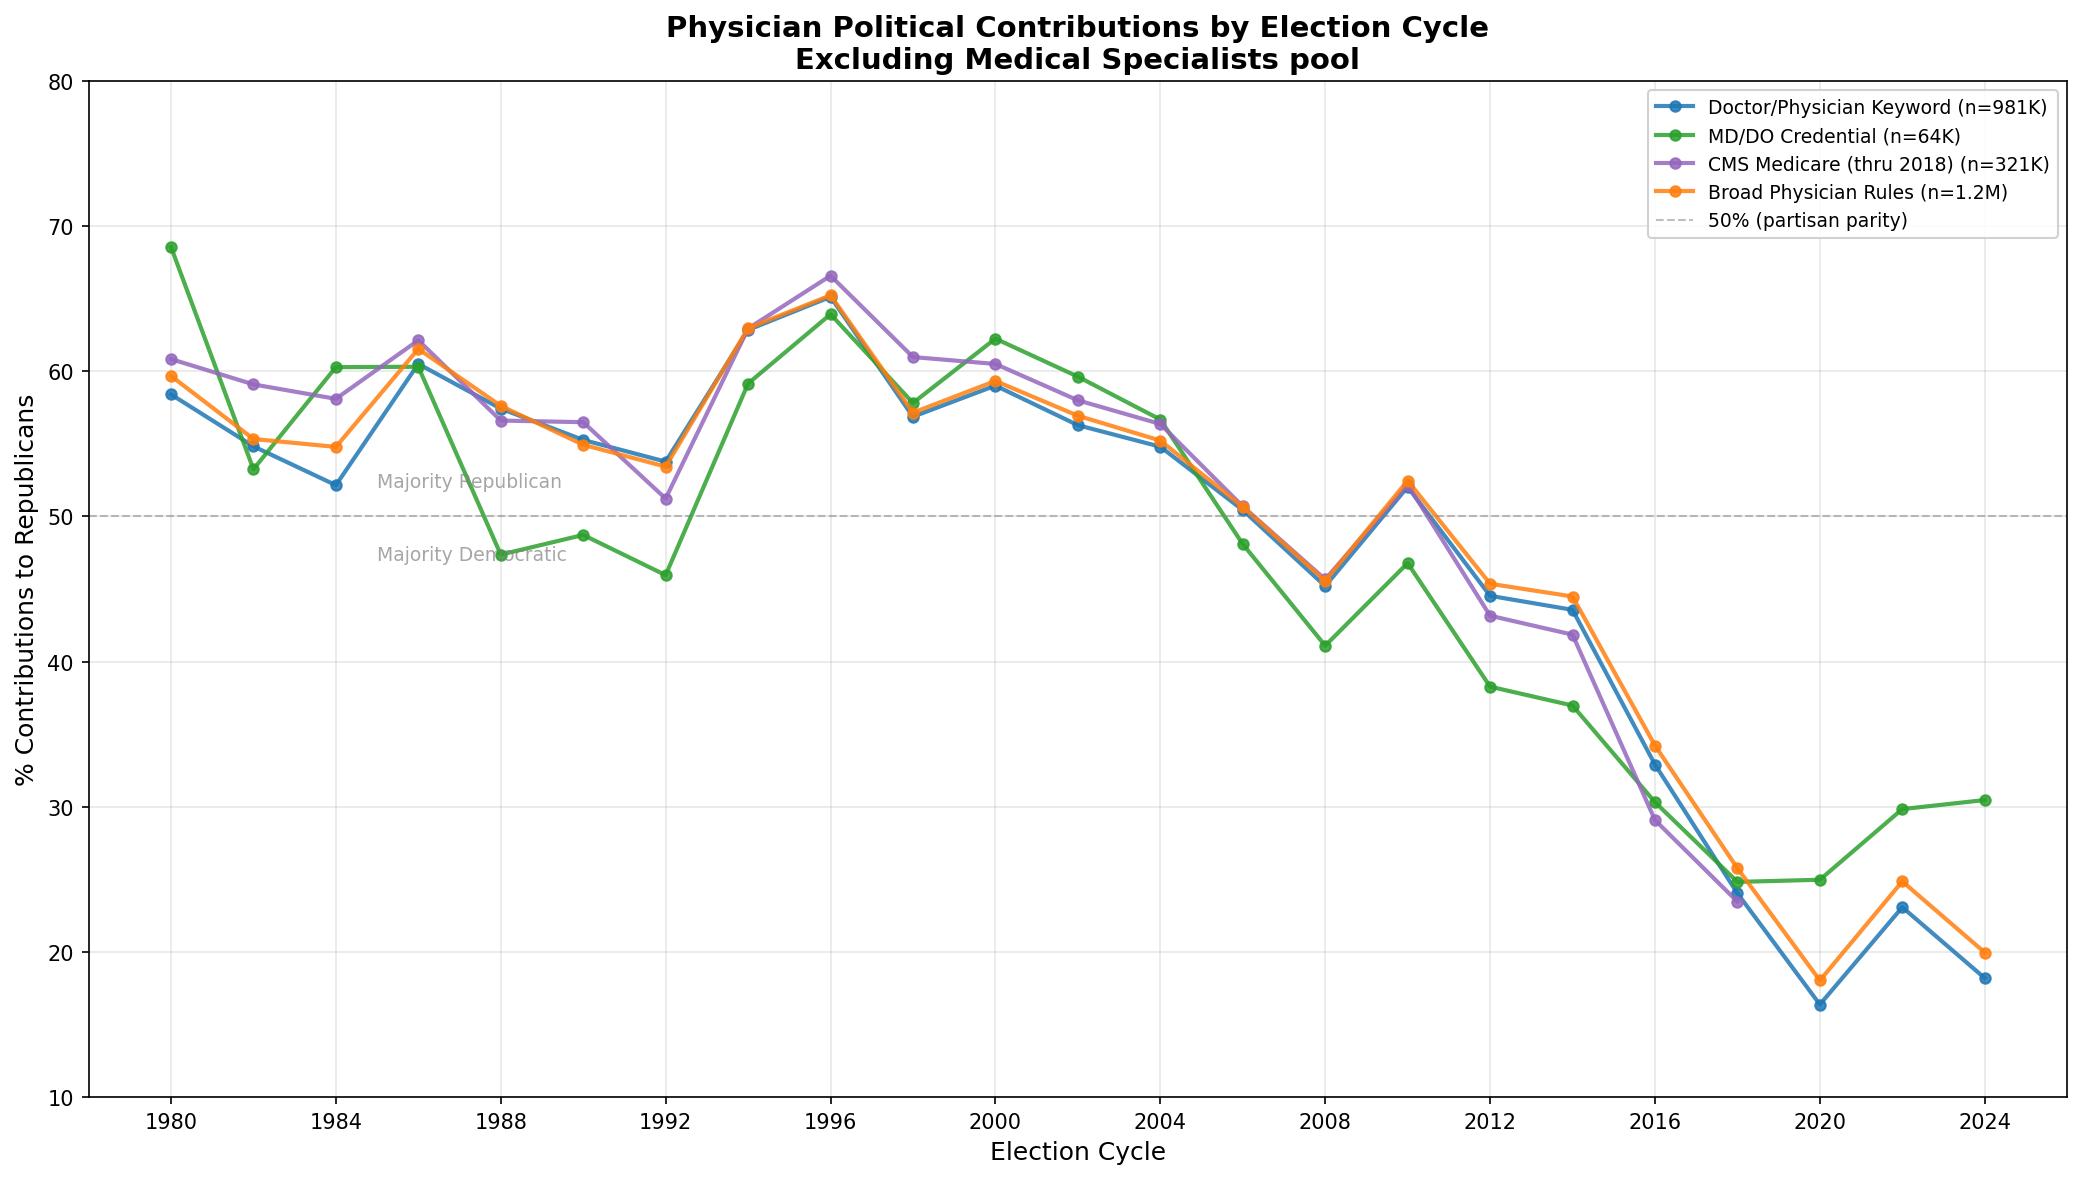
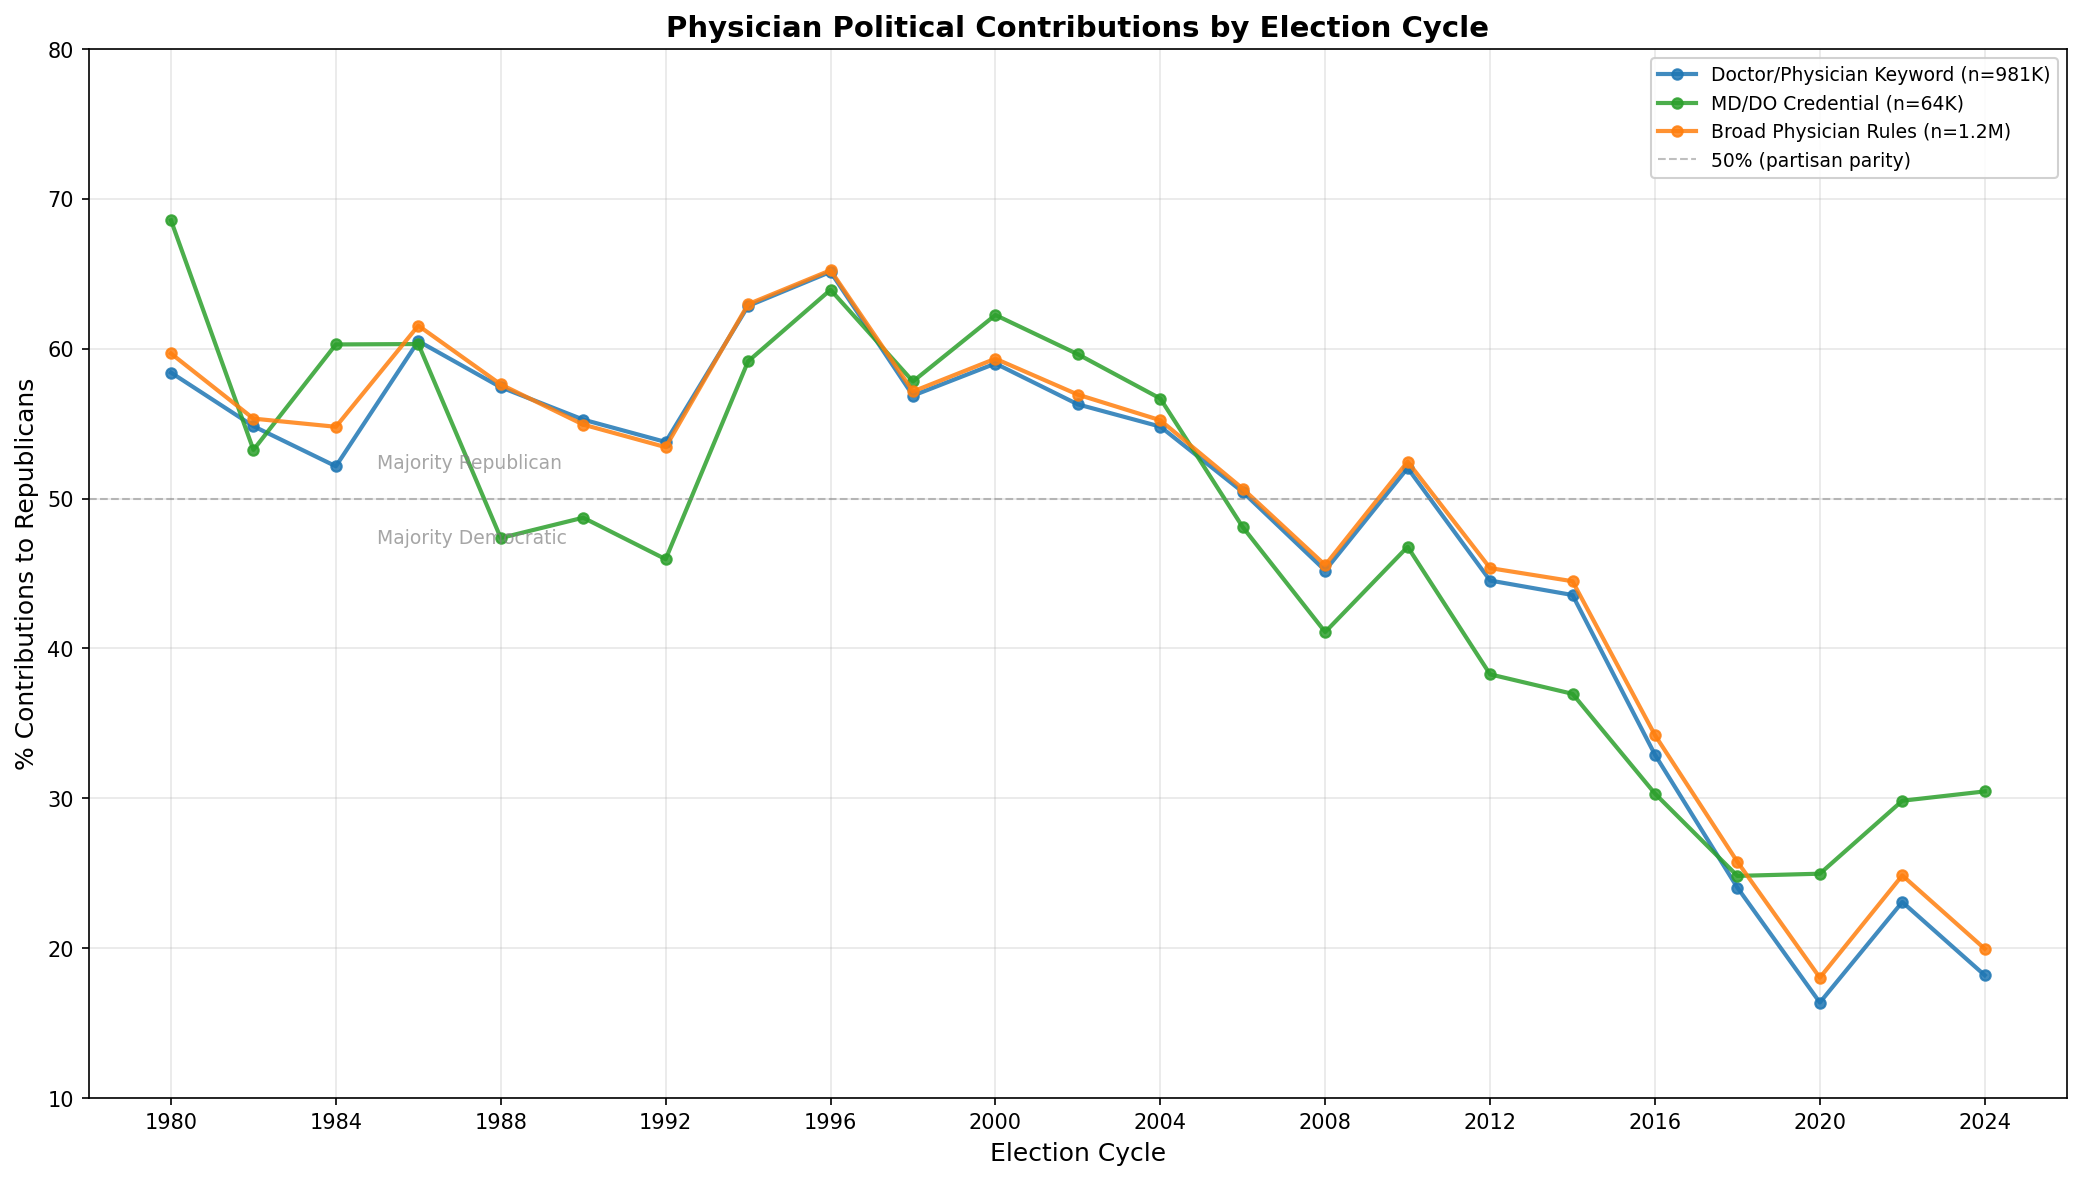
Remove CMS Medicare line from simplified figure
For lay audiences, the CMS Medicare pool is confusing (ends at 2018,
requires explaining ground-truth matching). Simplified figure now
shows only 3 pools: Doctor/Physician, MD/DO Credential, Broad Rules.

🤖 Generated with [Claude Code](https://claude.com/claude-code)

diff --git a/replicate_figure.py b/replicate_figure.py
@@ -183,9 +183,9 @@ def plot_contributions(
         title = f"{title}\n{subtitle}"
     ax.set_title(title, fontsize=14, fontweight="bold")
 
-    # Axis limits - use 70 for no-specialists, 80 for full version
+    # Axis limits - use 70 for simplified version, 80 for full version
     ax.set_xlim(1978, 2026)
-    if exclude_pools and "specialists" in exclude_pools:
+    if exclude_pools and len(exclude_pools) > 0:
         ax.set_ylim(10, 70)
     else:
         ax.set_ylim(10, 80)
@@ -303,13 +303,13 @@ Examples:
             dpi=args.dpi,
         )
 
-    # Without specialists
+    # Clean version for lay audience (no specialists, no CMS Medicare)
     plot_contributions(
         data,
         POOL_DEFINITIONS,
         output_dir / "physician_contributions_no_specialists.png",
-        exclude_pools=["specialists"],
-        subtitle="Excluding Medical Specialists pool",
+        exclude_pools=["specialists", "cms_medicare"],
+        subtitle="",
         dpi=args.dpi,
     )
 
